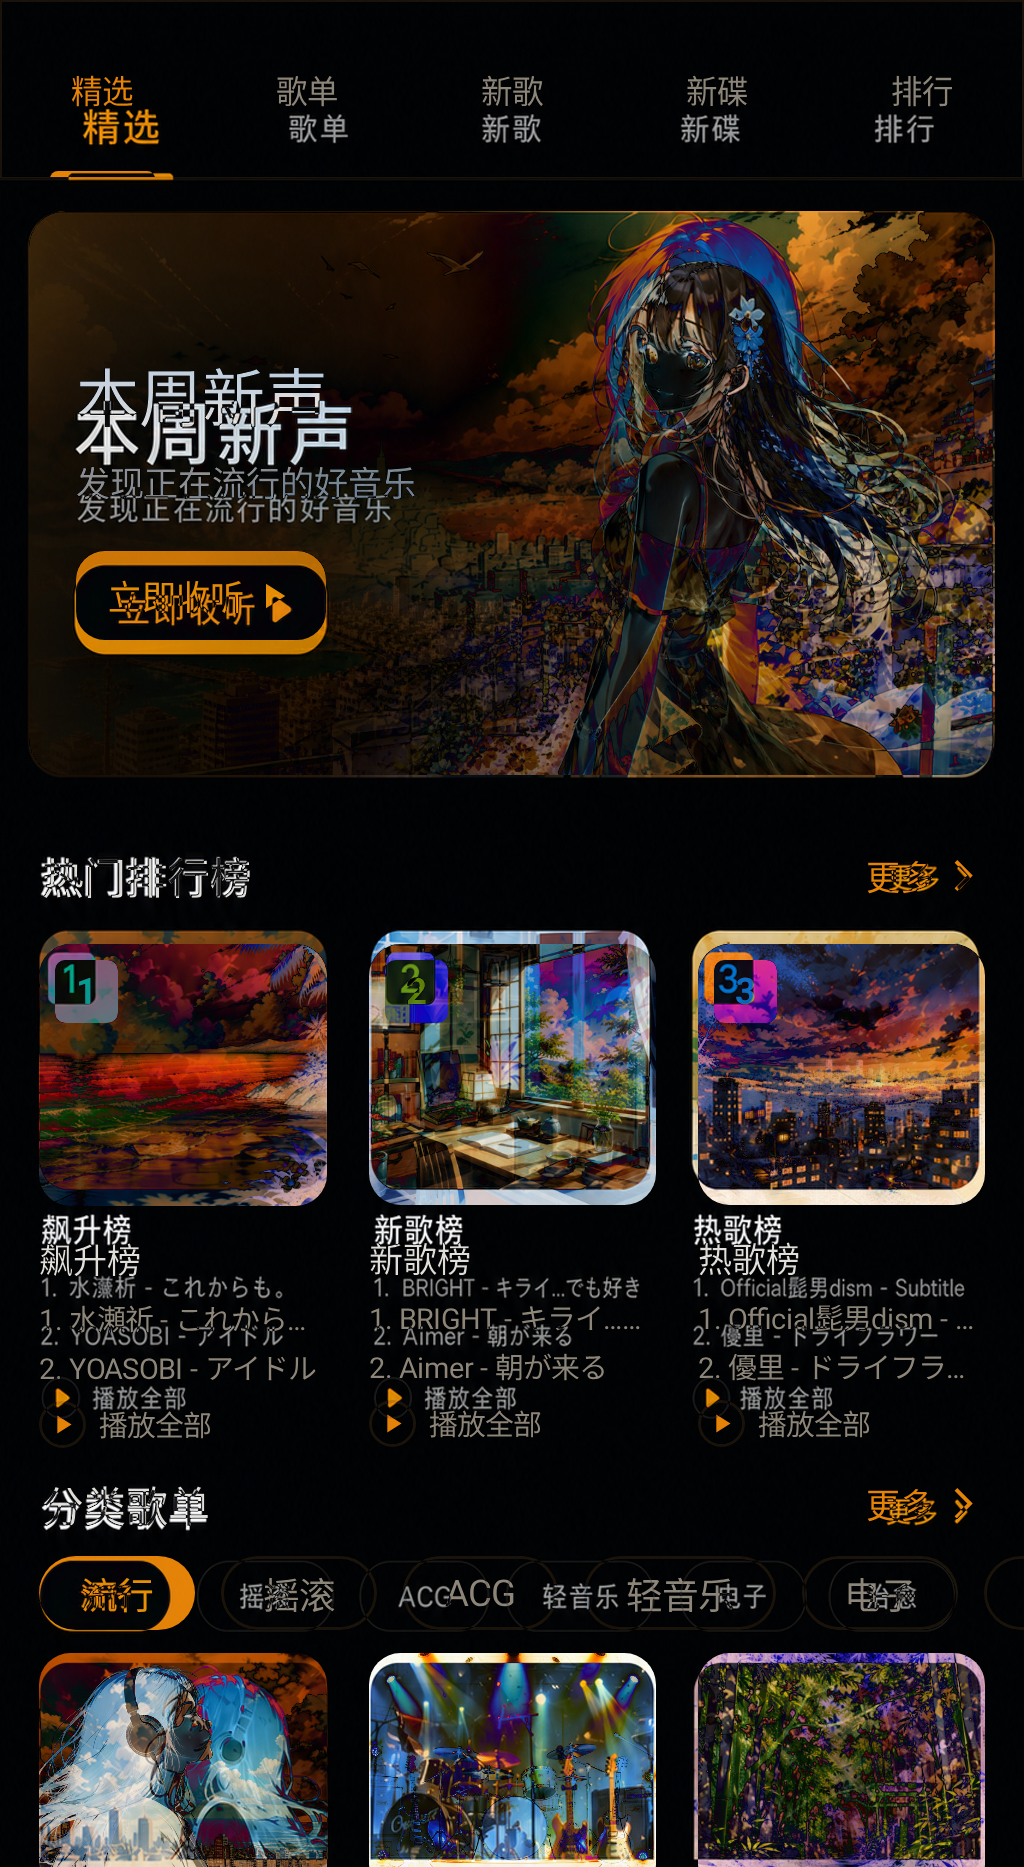
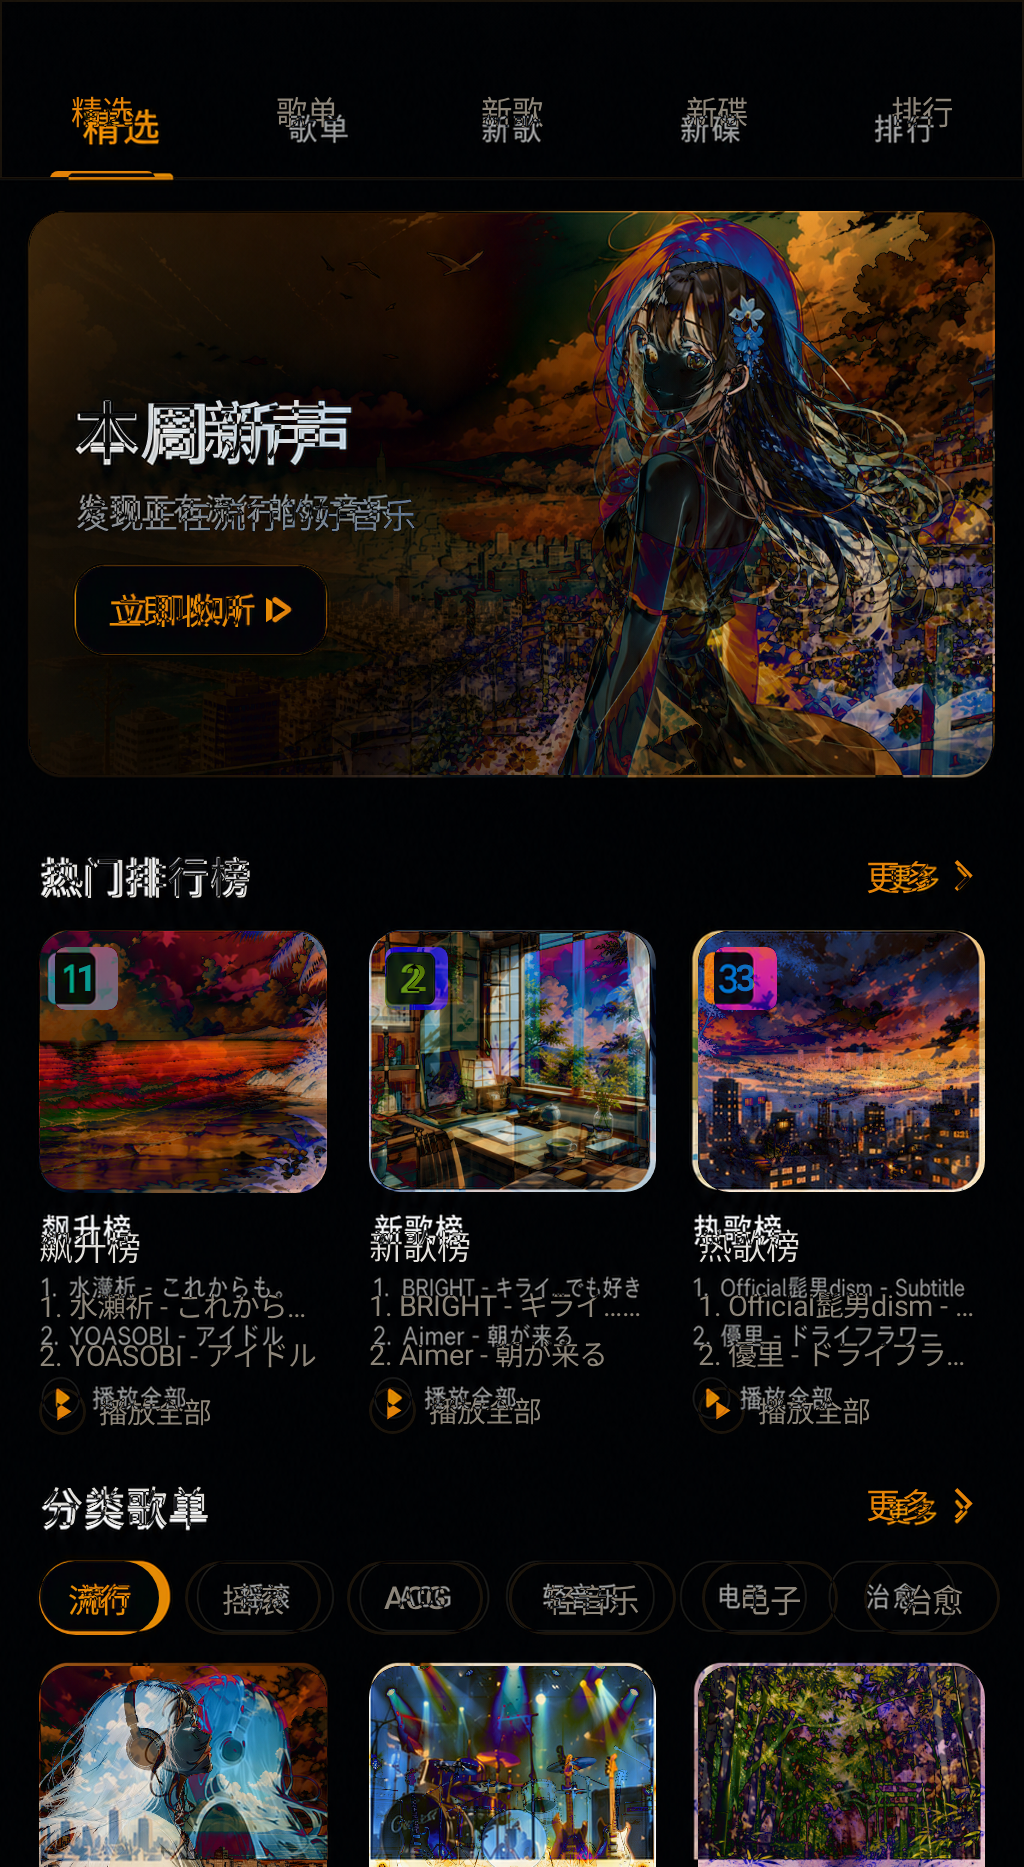
fix(discover): align confirmed content anchors

diff --git a/feature/discover/src/main/kotlin/cn/james/music/feature/discover/DiscoverScreen.kt b/feature/discover/src/main/kotlin/cn/james/music/feature/discover/DiscoverScreen.kt
@@ -18,6 +18,7 @@ import androidx.compose.foundation.layout.fillMaxSize
 import androidx.compose.foundation.layout.fillMaxWidth
 import androidx.compose.foundation.layout.height
 import androidx.compose.foundation.layout.heightIn
+import androidx.compose.foundation.layout.offset
 import androidx.compose.foundation.layout.padding
 import androidx.compose.foundation.layout.size
 import androidx.compose.foundation.layout.width
@@ -141,7 +142,7 @@ private fun DiscoverTabs(
             ) {
                 Text(
                     text = label,
-                    modifier = Modifier.align(Alignment.Center),
+                    modifier = Modifier.align(Alignment.Center).offset(y = 8.dp),
                     fontSize = 12.sp,
                     fontWeight = if (selected) FontWeight.SemiBold else FontWeight.Normal,
                     color = if (selected) MaterialTheme.colorScheme.primary else MaterialTheme.colorScheme.onSurfaceVariant,
@@ -178,15 +179,17 @@ private fun DiscoverContent(
             WeeklyHero(content.heroArtworkRes, onHeroPlay)
             Spacer(Modifier.height(8.dp))
             DiscoverSectionTitle(stringResource(R.string.discover_hot_ranking))
-            Spacer(Modifier.height(8.dp))
+            Spacer(Modifier.height(3.dp))
             RankingGrid(content.rankings, onRankingPlay)
+            Spacer(Modifier.height(5.dp))
             DiscoverSectionTitle(stringResource(R.string.discover_category_playlists))
+            Spacer(Modifier.height(2.dp))
             CategoryChips(
                 categories = content.categories,
                 selectedIndex = selectedCategory,
                 onSelected = onCategorySelected,
             )
-            Spacer(Modifier.height(7.dp))
+            Spacer(Modifier.height(10.dp))
             CategoryArtworkGrid(content.categoryArtworkRes, onPlaylist)
         }
     }
@@ -223,7 +226,7 @@ private fun WeeklyHero(
                 ),
         )
         Column(
-            modifier = Modifier.align(Alignment.CenterStart).padding(start = 18.dp),
+            modifier = Modifier.align(Alignment.CenterStart).offset(y = 12.dp).padding(start = 18.dp),
             verticalArrangement = Arrangement.Center,
         ) {
             Text(
@@ -241,7 +244,7 @@ private fun WeeklyHero(
             )
             Button(
                 onClick = onPlay,
-                modifier = Modifier.padding(top = 14.dp).height(34.dp),
+                modifier = Modifier.padding(top = 14.dp).offset(y = (-7).dp).height(34.dp),
                 shape = RoundedCornerShape(11.dp),
                 contentPadding = PaddingValues(horizontal = 12.dp),
                 colors = ButtonDefaults.buttonColors(containerColor = MaterialTheme.colorScheme.primary),
@@ -479,10 +482,10 @@ private fun CategoryChips(
                     },
             ) {
                 Box(
-                    modifier = Modifier.padding(horizontal = 16.dp),
+                    modifier = Modifier.padding(horizontal = if (selected) 11.dp else 14.dp),
                     contentAlignment = Alignment.Center,
                 ) {
-                    Text(category, style = MaterialTheme.typography.bodyMedium, maxLines = 1)
+                    Text(category, style = MaterialTheme.typography.labelMedium, maxLines = 1)
                 }
             }
         }

diff --git a/docs/plans/04-content-and-player-ui.md b/docs/plans/04-content-and-player-ui.md
@@ -45,7 +45,7 @@
 - 首页 Repository 已完成 Room stale-while-revalidate、15 分钟 TTL、匿名/用户分区自动切换与刷新、完整快照提交、部分失败保护、single-flight、强制刷新和会话双代际隔离；15 项 JVM 测试覆盖旧缓存首发、自动刷新问题、取消、缓存损坏和并发竞态。
 - Home ViewModel 已完成领域模型到 UI Model 的隔离、首次/缓存/刷新/部分/空/错误状态、弱提示消耗、显式刷新代际取消和身份分区切换；9 项 JVM 测试覆盖首次会话失败顺序及账号切换与手动刷新并发。
 - 首页 Compose 已按 [`HOME_LAYOUT_SPEC.md`](../design/HOME_LAYOUT_SPEC.md) 和 `01-home-material3-v2.png` 完整恢复横向顶部工具区、Radio Hero、三快捷入口、每日推荐四行与四列推荐歌单；2026-08-08 的二次同画布复核进一步修正了旧证据未拦住的歌曲行、封面、字级与推荐歌单纵向漂移。真实推荐/歌单、搜索、下拉刷新、播放事件和缓存弱提示继续复用既有链路。Light、Dark、AMOLED、加载、空、错误、缓存刷新弱提示、`1.5×`、`2.0×` 共 9 组截图基线及归一化对照证据已建立；设计示例徽标和副标题只进入截图 fixture，不扩充协议或伪造运行时能力。
-- 发现页已按 [`DISCOVER_LAYOUT_SPEC.md`](../design/DISCOVER_LAYOUT_SPEC.md) 和 `02-discover-v2.png` 完整恢复五段 Tab、本周新声 Hero、三列热门榜单、分类胶囊与三列封面；当前内容是 UI 层设计预览，不声明榜单、详情或播放业务已接入。Light、Dark、AMOLED、加载、空、错误、`1.5×`、`2.0×` 共 8 组截图基线和归一化设计对照证据已建立，大字体排行榜按纵向行重排；指定 ELE-AL00 / API 29 的 App instrumentation 回归 24/24 通过。
+- 发现页已按 [`DISCOVER_LAYOUT_SPEC.md`](../design/DISCOVER_LAYOUT_SPEC.md) 和 `02-discover-v2.png` 完整恢复五段 Tab、本周新声 Hero、三列热门榜单、分类胶囊与三列封面；2026-08-08 的二次同画布复核进一步修正了 Tab 基线、Hero 内容、排行榜起点、胶囊宽度与分类封面的局部漂移。当前内容是 UI 层设计预览，不声明榜单、详情或播放业务已接入。Light、Dark、AMOLED、加载、空、错误、`1.5×`、`2.0×` 共 8 组截图基线和归一化设计对照证据已建立，大字体排行榜按纵向行重排。
 - 播放队列已按 [`PLAYER_QUEUE_LAYOUT_SPEC.md`](../design/PLAYER_QUEUE_LAYOUT_SPEC.md) 和 `08-player-queue.png` 完成纯 UI 复刻：系统 `ModalBottomSheet` 内恢复标题、真实数量、播放模式、清空、来源、当前项、六行密度和关闭提示；标准、空队列、`1.5×` 共 3 组截图及归一化对照证据通过。指定 ELE-AL00 / API 29 已从 MiniPlayer 与全屏播放器分别打开真实调试队列并验证系统返回；拖拽仅表达确认稿视觉，不伪装重排业务已完成。
 - 歌单详情已经完成 [`19-playlist-detail-ui`](../reference-audits/19-playlist-detail-ui.md) 门禁，并按 [`PLAYLIST_DETAIL_LAYOUT_SPEC.md`](../design/PLAYLIST_DETAIL_LAYOUT_SPEC.md) 与 `05-playlist-detail.png` 落入独立 `:feature:playlist`：从发现页使用类型安全子页面导航进入，恢复标准 Toolbar、资料 Hero、五项操作、紧凑歌曲列表与当前项 Surface；子页面隐藏一级底栏并保留应用级 MiniPlayer。Light、Dark、AMOLED、加载、空、错误、`1.5×`、`2.0×` 共 8 组截图基线及归一化设计对照证据已建立，指定 ELE-AL00 / API 29 已验证入口、返回与窄屏操作区无裁切。真实协议、收藏、下载、排序和播放行为继续拆分为后续纵向切片。
 - 歌词 Repository 已完成仅支持酷狗来源的缓存优先读取、损坏缓存删除后单次回源、同 Hash 并发单飞、旧请求取消透传和成功解析后缓存；匿名歌词客户端不再接受账号请求上下文，JVM 行为测试与 App Hilt 装配已通过。

diff --git a/docs/design/evidence/discover-content-2026-08-08.md b/docs/design/evidence/discover-content-2026-08-08.md
@@ -12,8 +12,16 @@
 
 ## 结论
 
-- 五段 Tab、选中指示条、Hero 边界与按钮、排行榜标题与三列封面、榜单两行信息与播放入口、分类标题、横向胶囊和三列封面的锚点及纵向节奏已经同输入复核。
+- 本轮重新复核纠正了旧证据未拦住的局部漂移：五段 Tab 的文字基线、Hero 标题/副标题/按钮、排行榜封面起点、分类胶囊和三列分类封面均重新与确认稿同画布校准。
+- 五段 Tab、选中指示条、Hero 边界与按钮、排行榜标题与三列封面、榜单两行信息与播放入口、分类标题、横向胶囊和三列封面的锚点及纵向节奏现在保持一致；原创图片内容不参与结构坐标判断。
 - Light、Dark、AMOLED、Loading、Empty、Error、`1.5×`、`2.0×` 共 8 组截图基线已建立；大字体下排行榜改为纵向行布局，避免三列文本和操作裁切，Tab 与分类胶囊允许水平滚动。
-- 指定 ELE-AL00 / API 29 真机的 App instrumentation 回归 24/24 通过；发现页纵向滚动定位使用页面专属语义，避免与横向分类胶囊混淆。
 - 保留的 P3 差异为原创插画内容与 Material 图标笔画。图片槽位比例、构图留白、裁切和蓝色语义符合确认稿，不阻塞交付。
 - 当前榜单、分类与 Hero 内容是 UI 层设计预览，不声明远端接口已接入，不写入协议、数据库或播放状态。
+- 本切片没有修改导航事件、榜单数据、播放接口或页面状态所有权。
+
+## 验证
+
+- `spotlessCheck`。
+- `:feature:discover:testDebugUnitTest`（当前无测试源）、`:feature:discover:validateDebugScreenshotTest`、`:feature:discover:lintDebug`。
+- `:app:assembleDebug`、`:app:compileDebugAndroidTestKotlin`。
+- Huawei ELE-AL00 / Android 10（API 29）运行 `:app:connectedDebugAndroidTest`，25/25 通过；发现页纵向定位继续使用页面专属语义，没有创建或启动模拟器。

diff --git a/docs/design/DISCOVER_LAYOUT_SPEC.md b/docs/design/DISCOVER_LAYOUT_SPEC.md
@@ -40,6 +40,8 @@ runtimeSize = designSize × s
 
 发现页只拥有 MiniPlayer 上方的内容区域。MiniPlayer 和 NavigationBar 固定在 `Scaffold.bottomBar`；feature 截图验证页面内容，app 真机测试验证与壳层的连续关系。
 
+标准 `390dp`、`1.0×` 状态下，五段 Tab 使用 `68dp` 槽位，文字基线相对几何中心下移 `8dp` 并保持指示条贴底；Hero 高度 `215dp`，文字组在中心基准上向下校准 `12dp`。分类胶囊视觉高度 `28dp`，使用紧凑 `labelMedium` 字级；选中与未选中胶囊分别用 `11dp`、`14dp` 水平内容边距，使短中文标签与确认稿宽度一致。胶囊的可见高度不得被扩大成按钮底板，点击命中由 Compose 的最小触控扩展处理。
+
 ## 滚动、字体与图片
 
 - 页面只有一个纵向滚动所有者；顶部分段导航随内容滚动，不另加重复 Toolbar 标题。
